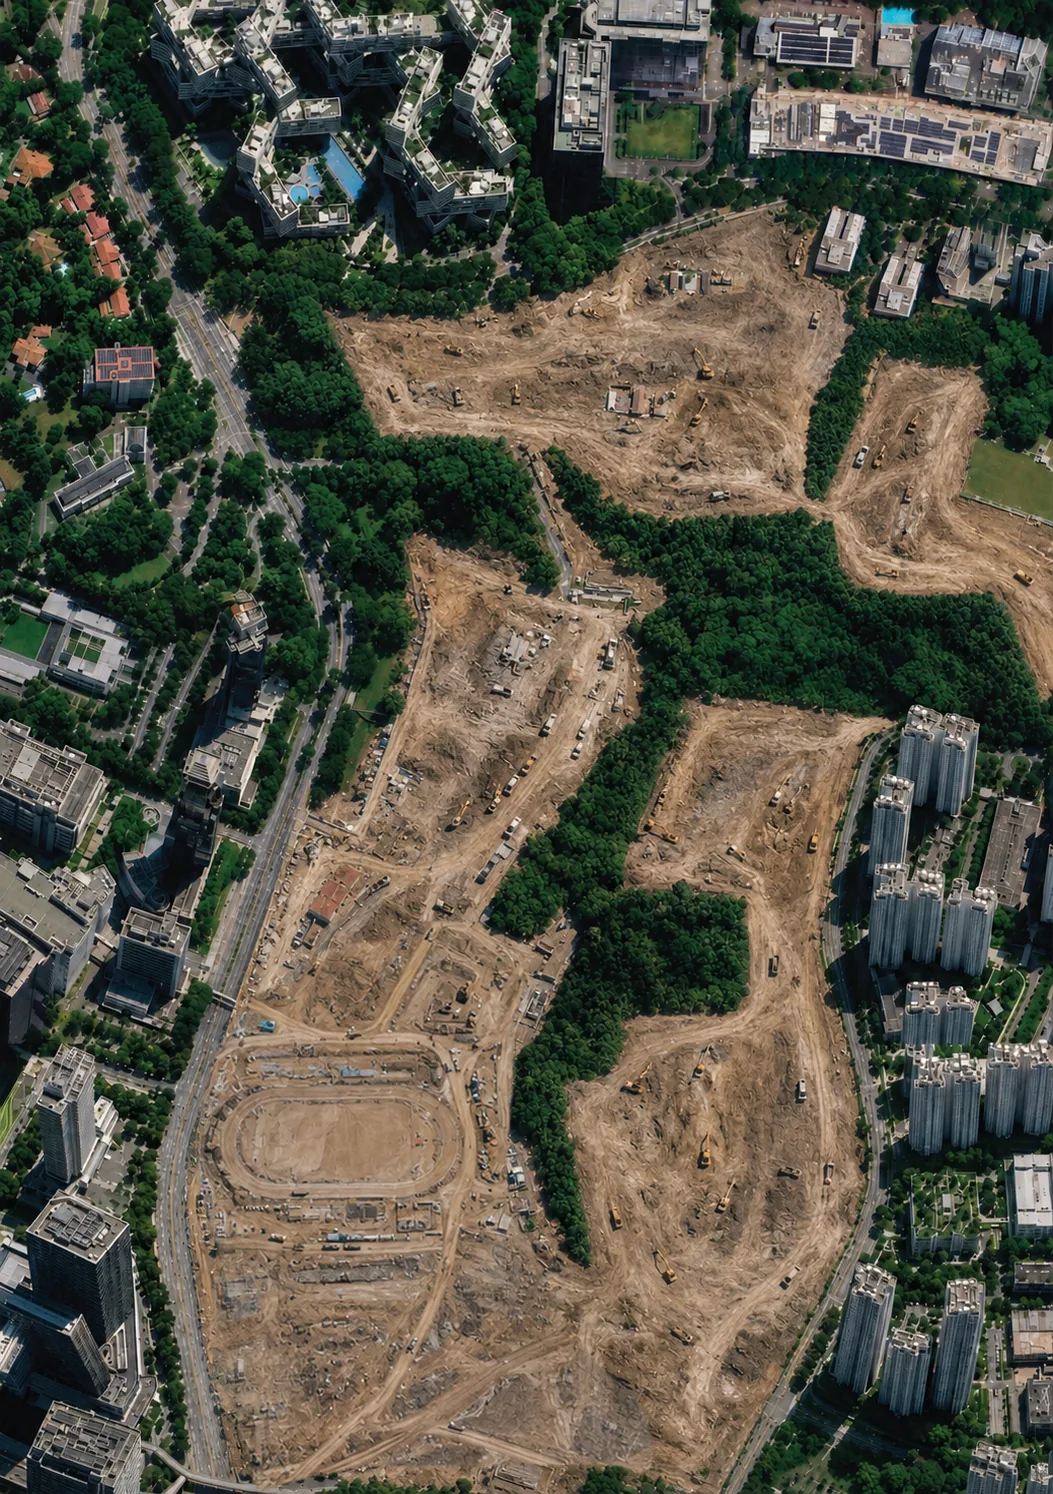
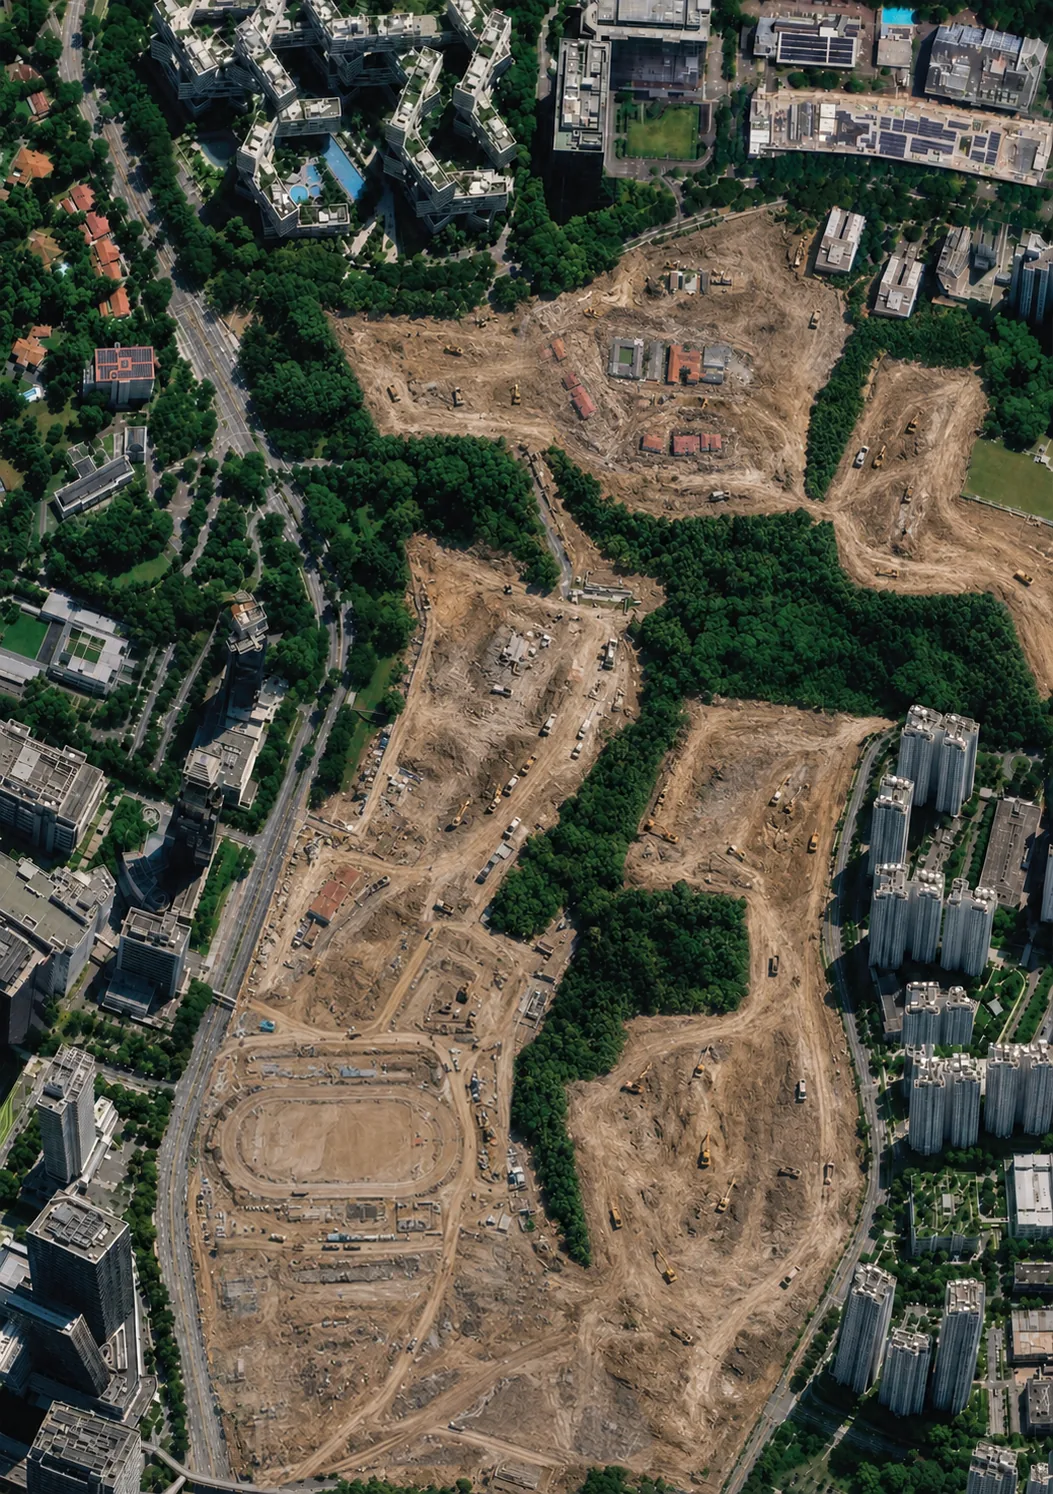
Sliders: retain Preston Road and ISS buildings; add indicative-extent disclaimer

Changed region(s): [[0.4862, 0.1847, 0.7293, 0.3387]]

diff --git a/index.html b/index.html
@@ -724,10 +724,10 @@ body[data-page="petition"] .site-footer .cta-row{display:none}
         <img class="ba-top" src="assets/img/plan/aerial-today.webp" alt="Aerial view of Gillman Forest today, a continuous green canopy between the surrounding roads and estates" loading="lazy" decoding="async">
         <span class="ba-line"></span><span class="ba-knob">&#8596;</span>
         <span class="ba-tag ba-tag--l">Today</span><span class="ba-tag ba-tag--r">If cleared</span>
-        <span class="ba-credit">Right: residents&rsquo; visualisation. Base imagery &copy; Google</span>
+        <span class="ba-credit">Right: indicative, residents&rsquo; visualisation. Base imagery &copy; Google</span>
         <input class="ba-range" type="range" min="0" max="100" value="50" step="0.1" aria-label="Drag to compare Gillman today with a visualisation of the site cleared">
       </div>
-      <figcaption><b>Drag the handle to compare.</b> Gillman today, against a visualisation prepared by residents of clearance inside the development boundary. <button class="gd-inline" type="button" data-page="plan">See the full plan</button></figcaption>
+      <figcaption><b>Drag the handle to compare.</b> Gillman today, against the indicative extent of forest that would be cleared under the plan published on 10 July 2026, drawn by residents from the Environmental Impact Assessment. It maps forest area, not individual buildings. On 14 August the Government said more will be kept, without saying how much, and no revised plan has been published. <button class="gd-inline" type="button" data-page="plan">See the full plan</button></figcaption>
     </figure>
 
     <section class="damage">
@@ -1711,10 +1711,10 @@ body[data-page="petition"] .site-footer .cta-row{display:none}
         <img class="ba-top" src="assets/img/plan/aerial-today.webp" alt="Aerial view of Gillman Forest today, a continuous green canopy between the surrounding roads and estates" loading="lazy" decoding="async">
         <span class="ba-line"></span><span class="ba-knob">&#8596;</span>
         <span class="ba-tag ba-tag--l">Today</span><span class="ba-tag ba-tag--r">If cleared</span>
-        <span class="ba-credit">Right: residents&rsquo; visualisation. Base imagery &copy; Google</span>
+        <span class="ba-credit">Right: indicative, residents&rsquo; visualisation. Base imagery &copy; Google</span>
         <input class="ba-range" type="range" min="0" max="100" value="50" step="0.1" aria-label="Drag to compare Gillman today with a visualisation of the site cleared">
       </div>
-      <figcaption><b>Drag the handle to compare at your own pace.</b> On the left, Gillman as it stands today. On the right, a visualisation prepared by residents of the same view if the land inside the development boundary were cleared, with a green strip left through the middle.</figcaption>
+      <figcaption><b>What this shows.</b> On the left, Gillman as it stands today. On the right, the indicative extent of forest that would be cleared under the plan HDB published on 10 July 2026, read from the Environmental Impact Assessment and drawn by residents. It maps forest area. Individual buildings, roads and boundaries are not drawn to plan.<br><br>On 14 August the Government said more greenery will be kept at Gillman and fewer homes built. It has not said how much more, and no revised plan has been published. <b>Until one is, this remains the most recent plan the public has been shown.</b></figcaption>
     </figure>
 
     <div class="fx">
